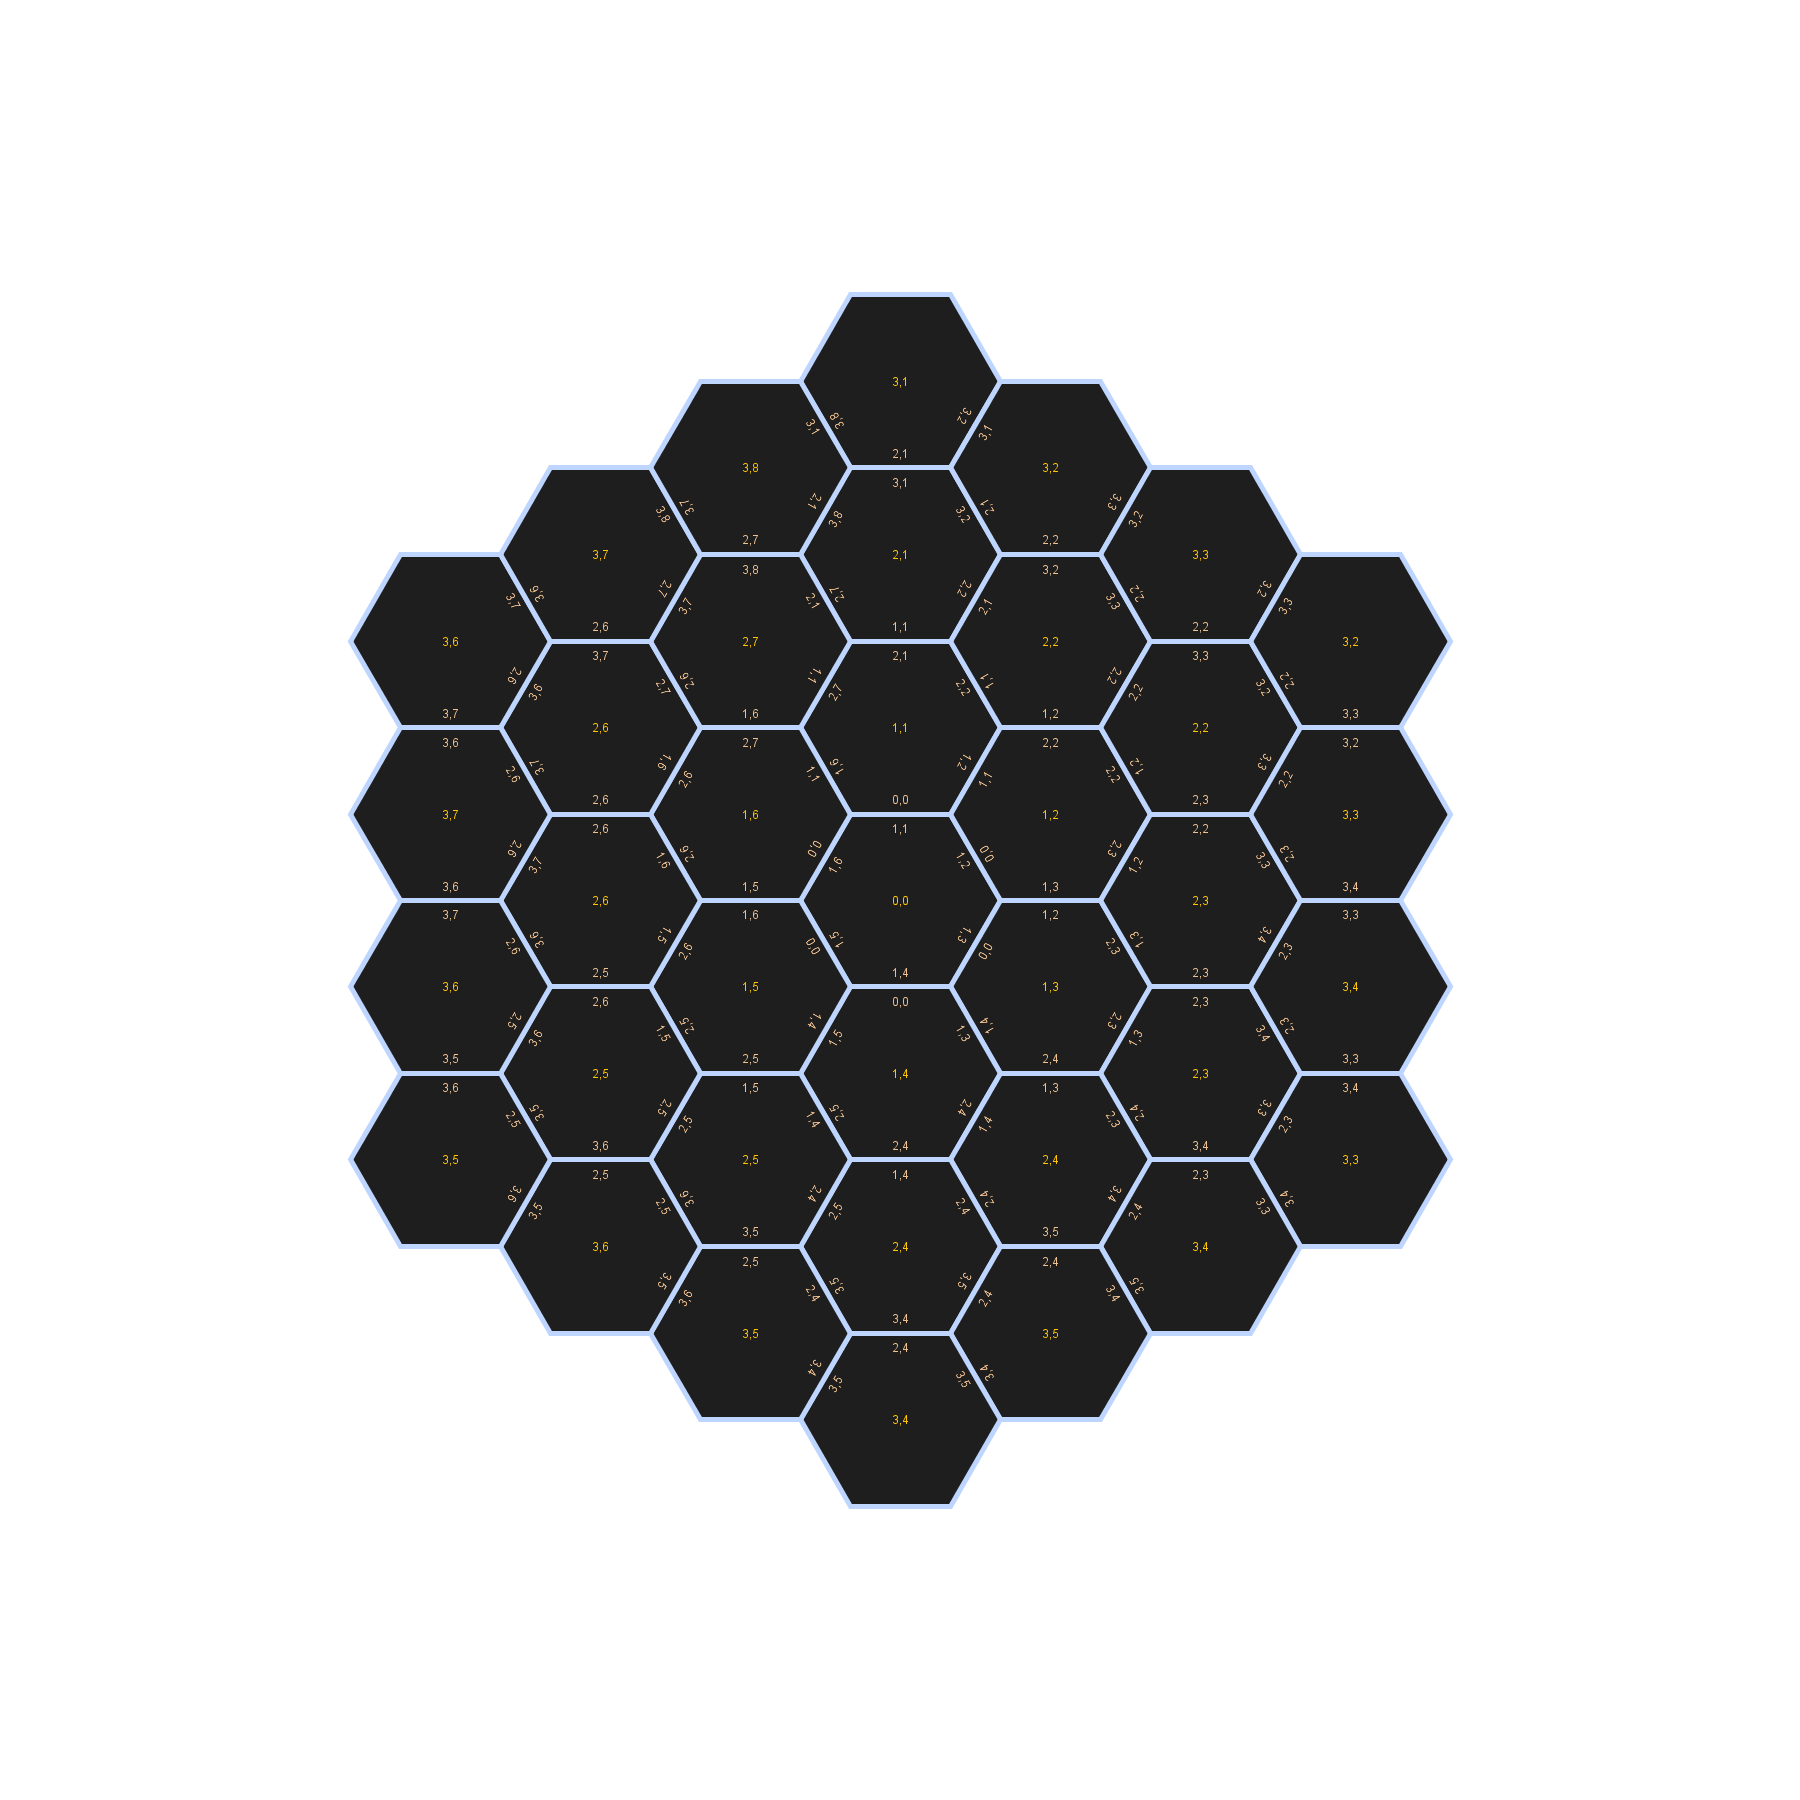
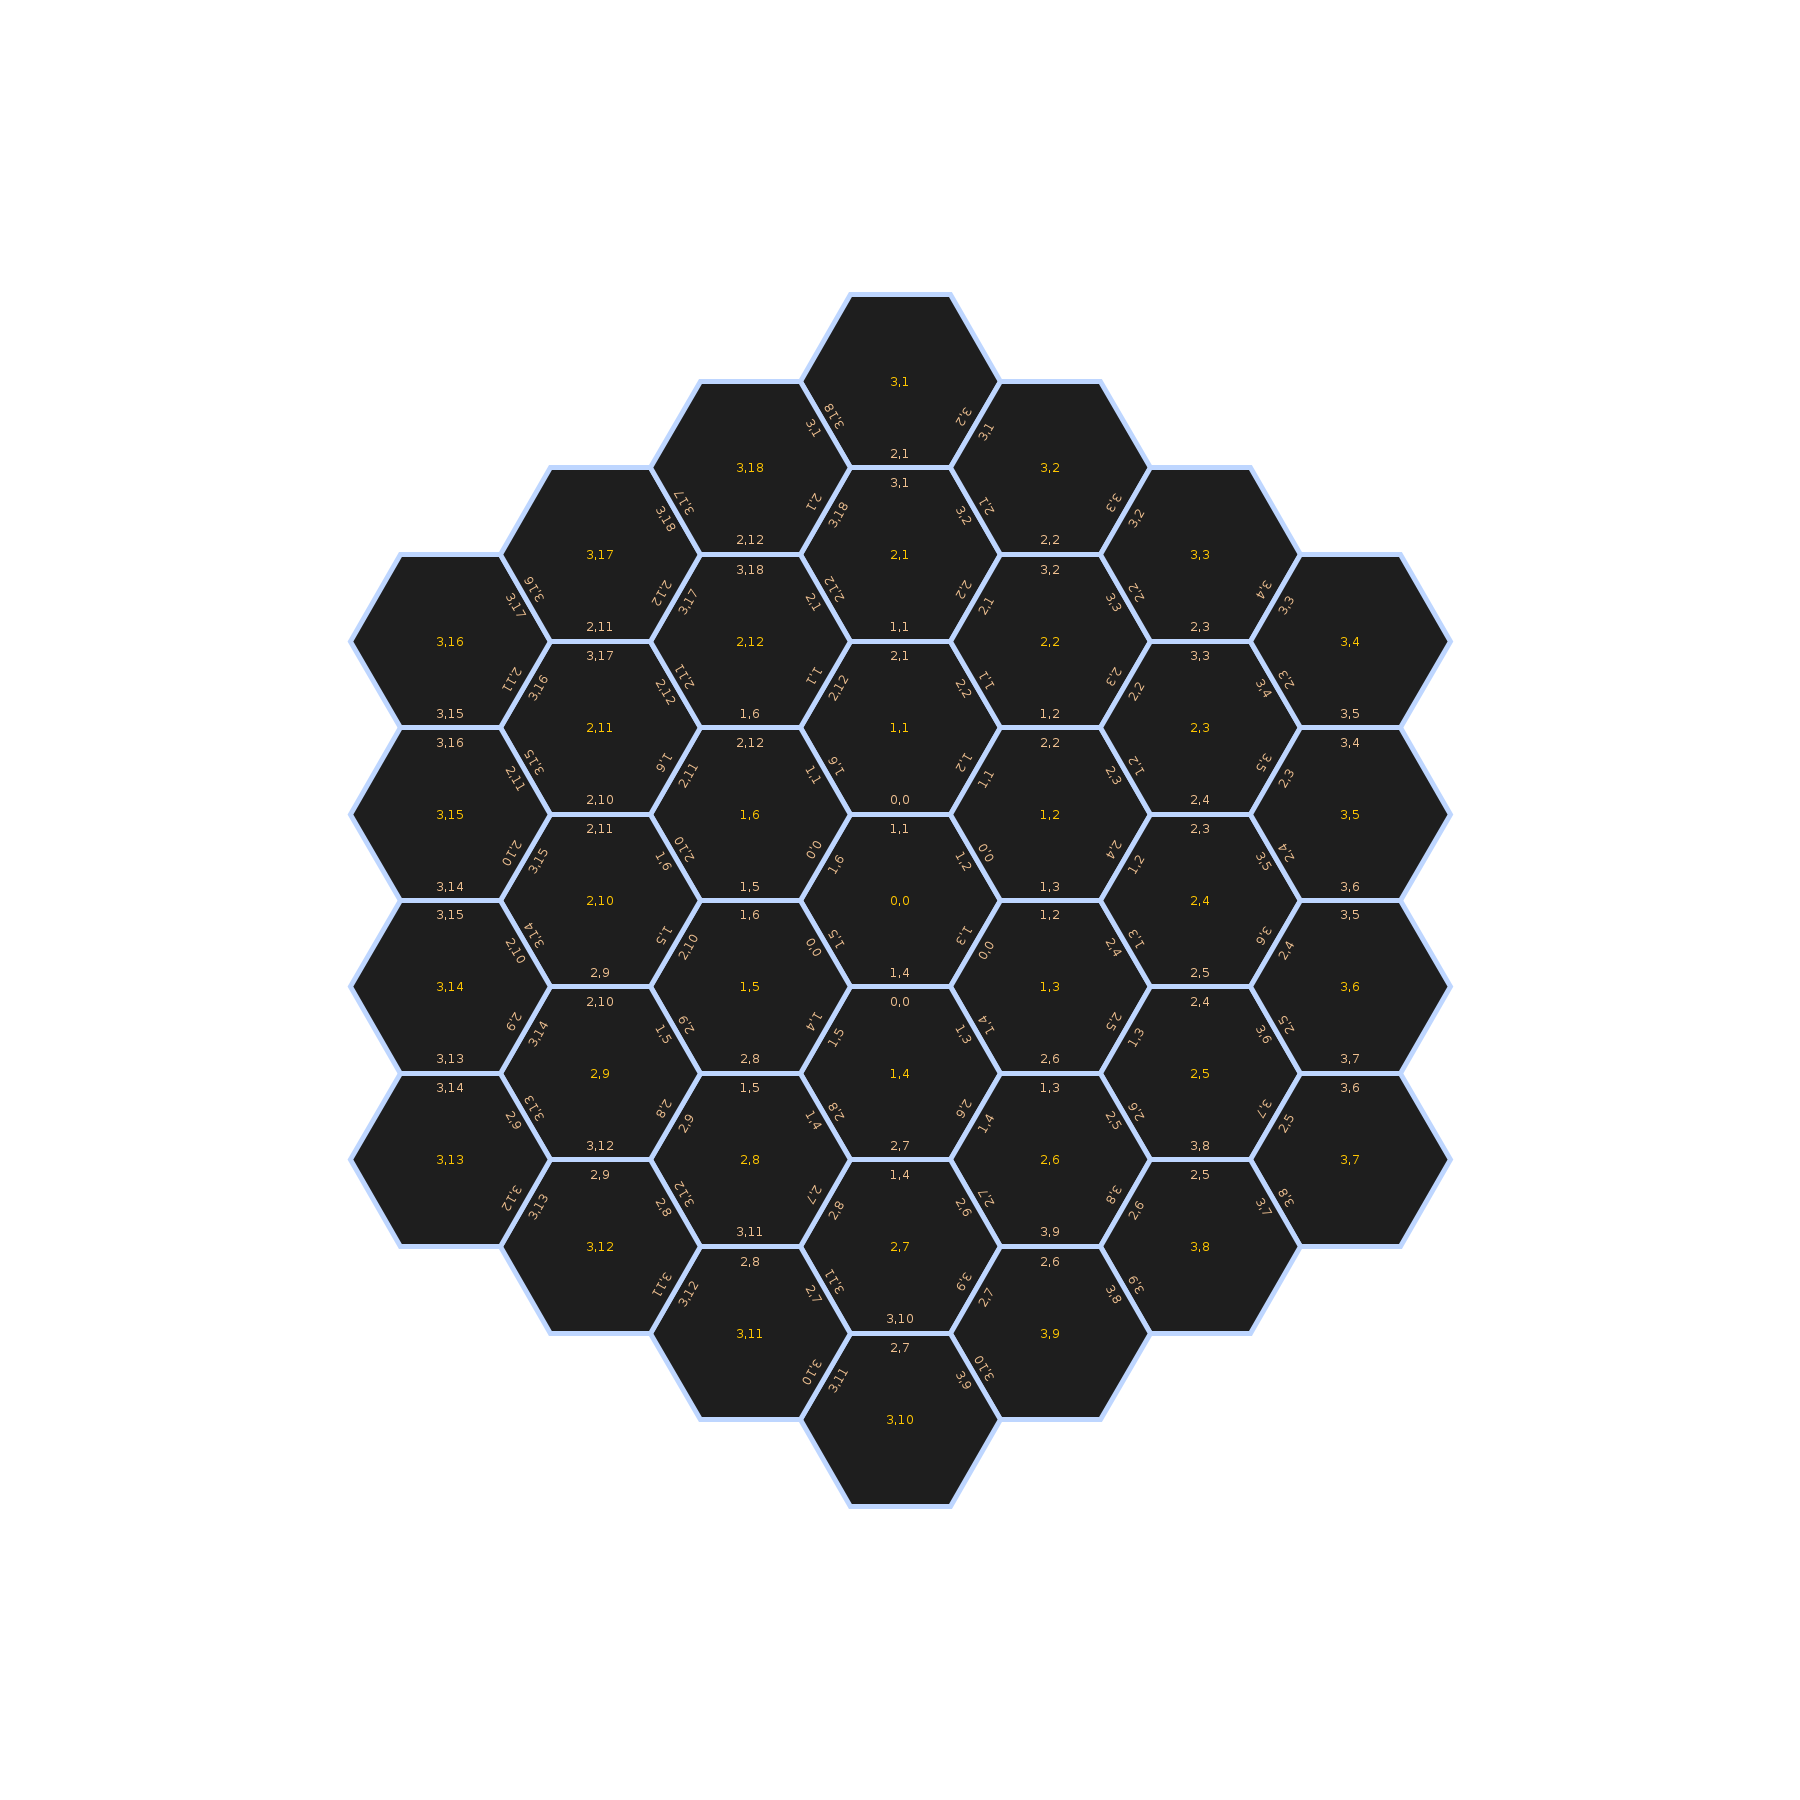
Fixed a bug which caused the hex identifiers to be out of sequence

diff --git a/src/ajb/factory/HexBoardFactory.java b/src/ajb/factory/HexBoardFactory.java
@@ -71,51 +71,51 @@ public class HexBoardFactory {
         float width = sampleHex.getWidth();
         float halfHeight = height / 2;
 
-        int hexCount = 1;
+        Integer hexCount = 1;
         // North
         Hex hex = new Hex(new Point2D.Double(0, 0 - (height * modifier)), modifier + "," + hexCount);
         hexList.add(hex);
         hexCount++;
 
-        createNorthToNorthEastFillerHexes(modifier, height, width, halfHeight, hexList, hexCount);
+        hexCount = createNorthToNorthEastFillerHexes(modifier, height, width, halfHeight, hexList, hexCount);
 
         // North East
         hex = new Hex(new Point2D.Double(0 + (width * modifier), 0 - (halfHeight * modifier)), modifier + "," + hexCount);
         hexList.add(hex);
         hexCount++;
 
-        createNorthEastToSoutEastFillerHexes(modifier, height, width, halfHeight, hexList, hexCount);
+        hexCount = createNorthEastToSoutEastFillerHexes(modifier, height, width, halfHeight, hexList, hexCount);
 
         // South East
         hex = new Hex(new Point2D.Double(0 + (width * modifier), 0 + (halfHeight * modifier)), modifier + "," + hexCount);
         hexList.add(hex);
         hexCount++;
 
-        createSouthEastToSouthFillerHexes(modifier, height, width, halfHeight, hexList, hexCount);
+        hexCount = createSouthEastToSouthFillerHexes(modifier, height, width, halfHeight, hexList, hexCount);
 
         // South
         hex = new Hex(new Point2D.Double(0, 0 + (height * modifier)), modifier + "," + hexCount);
         hexList.add(hex);
         hexCount++;
 
-        createSouthToSouthWestFillerHexes(modifier, height, width, halfHeight, hexList, hexCount);
+        hexCount = createSouthToSouthWestFillerHexes(modifier, height, width, halfHeight, hexList, hexCount);
 
         // South West
         hex = new Hex(new Point2D.Double(0 - (width * modifier), 0 + (halfHeight * modifier)), modifier + "," + hexCount);
         hexList.add(hex);
         hexCount++;
 
-        createSouthWestToNorthWestFillerHexes(modifier, height, width, halfHeight, hexList, hexCount);
+        hexCount = createSouthWestToNorthWestFillerHexes(modifier, height, width, halfHeight, hexList, hexCount);
 
         // North West
         hex = new Hex(new Point2D.Double(0 - (width * modifier), 0 - (halfHeight * modifier)), modifier + "," + hexCount);
         hexList.add(hex);
         hexCount++;
 
-        createNorthWestToNorthFillerHexes(modifier, height, width, halfHeight, hexList, hexCount);
+        hexCount = createNorthWestToNorthFillerHexes(modifier, height, width, halfHeight, hexList, hexCount);
     }
 
-    private void createNorthToNorthEastFillerHexes(int modifier, float height, float width, float halfHeight, List<Hex> hexList, int hexCount) {
+    private int createNorthToNorthEastFillerHexes(int modifier, float height, float width, float halfHeight, List<Hex> hexList, int hexCount) {
         float posX = 0 + width;
         float posY = 0 - (height * modifier) + halfHeight;
 
@@ -126,9 +126,11 @@ public class HexBoardFactory {
             posY += halfHeight;
             hexCount++;
         }
+        
+        return hexCount;
     }
 
-    private void createNorthEastToSoutEastFillerHexes(int modifier, float height, float width, float halfHeight, List<Hex> hexList, int hexCount) {
+    private int createNorthEastToSoutEastFillerHexes(int modifier, float height, float width, float halfHeight, List<Hex> hexList, int hexCount) {
         float posX = 0 + (width * modifier);
         float posY = 0 - (halfHeight * modifier) + height;
 
@@ -138,9 +140,11 @@ public class HexBoardFactory {
             posY += height;
             hexCount++;
         }
+        
+        return hexCount;
     }
 
-    private void createSouthEastToSouthFillerHexes(int modifier, float height, float width, float halfHeight, List<Hex> hexList, int hexCount) {
+    private int createSouthEastToSouthFillerHexes(int modifier, float height, float width, float halfHeight, List<Hex> hexList, int hexCount) {
         float posX = 0 + (width * modifier) - width;
         float posY = 0 + (halfHeight * modifier) + halfHeight;
 
@@ -151,9 +155,11 @@ public class HexBoardFactory {
             posY += halfHeight;
             hexCount++;
         }
+        
+        return hexCount;
     }
 
-    private void createSouthToSouthWestFillerHexes(int modifier, float height, float width, float halfHeight, List<Hex> hexList, int hexCount) {
+    private int createSouthToSouthWestFillerHexes(int modifier, float height, float width, float halfHeight, List<Hex> hexList, int hexCount) {
         float posX = 0 - width;
         float posY = 0 + (height * modifier) - halfHeight;
 
@@ -164,9 +170,11 @@ public class HexBoardFactory {
             posY -= halfHeight;
             hexCount++;
         }
+        
+        return hexCount;
     }
 
-    private void createSouthWestToNorthWestFillerHexes(int modifier, float height, float width, float halfHeight, List<Hex> hexList, int hexCount) {
+    private int createSouthWestToNorthWestFillerHexes(int modifier, float height, float width, float halfHeight, List<Hex> hexList, int hexCount) {
         float posX = 0 - (width * modifier);
         float posY = 0 + (halfHeight * modifier) - height;
 
@@ -176,9 +184,11 @@ public class HexBoardFactory {
             posY -= height;
             hexCount++;
         }
+        
+        return hexCount;
     }
 
-    private void createNorthWestToNorthFillerHexes(int modifier, float height, float width, float halfHeight, List<Hex> hexList, int hexCount) {
+    private int createNorthWestToNorthFillerHexes(int modifier, float height, float width, float halfHeight, List<Hex> hexList, int hexCount) {
         float posX = 0 - (width * modifier) + width;
         float posY = 0 - (halfHeight * modifier) - halfHeight;
 
@@ -189,6 +199,8 @@ public class HexBoardFactory {
             posY -= halfHeight;
             hexCount++;
         }
+        
+        return hexCount;
     }
 
     private void calculateAdjacentHexes(HexBoard hexBoard) {
